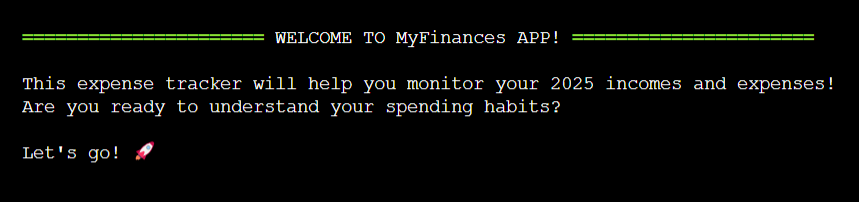
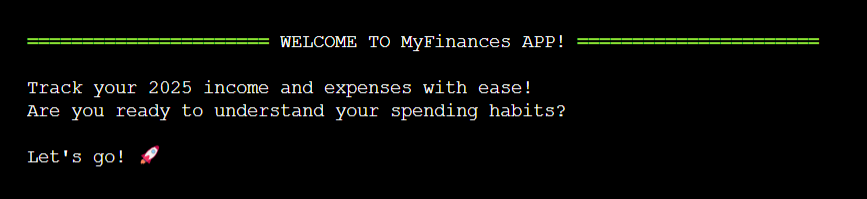
ReadMe: update mockup and welcome screenshots

Changed region(s): [[0.0303, 0.3618, 0.9686, 0.603], [0.0303, 0.1508, 0.9686, 0.2714], [0.0303, 0.6935, 0.1816, 0.8442]]

diff --git a/README.md b/README.md
@@ -88,9 +88,7 @@
   
 + Positioned above the menu options.
 + The welcome() function displays a colorful welcome message to the user when the program starts. It uses the colorama library to add green borders, creating a visually appealing introduction to MyFinances app.
-+ The welcome message already informs the user what can be done in the program.
-
-concisely introduces the user to the MyFinances app and briefly summarizes its key functionalities. (More specific about the message content)
++ The welcome message already informs the user that what can be done in the program and that it is easy to use.
        
 ### Menu options
 
